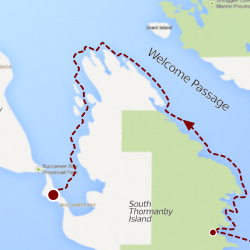
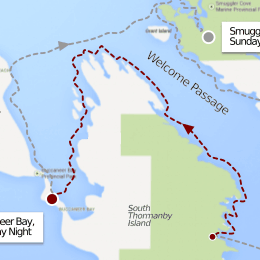
Nearly finished thormanby post; added bot to reddit bots article

diff --git a/themes/blueprint/templates/page.html b/themes/blueprint/templates/page.html
@@ -1,5 +1,5 @@
 {% extends "base.html" %}
-{% block title %}{{ page.title }} : {{ SITENAME }}{% endblock %}
+{% block title %}{{ page.title }}: {{ SITENAME }}{% endblock %}
 {% block description %}{{ page.meta_description|d(page.summary|striptags) }}{% endblock %}
 {% block twittercard %}
     <meta name="twitter:card" content="summary">

diff --git a/content/posts/personal/sunshine-coast-thormanby-islands-smuggler-cove-kayak-trip.rst b/content/posts/personal/sunshine-coast-thormanby-islands-smuggler-cove-kayak-trip.rst
@@ -23,6 +23,7 @@ On Saturday morning, we packed up our tent & got picked up by Erika from Talaysa
 We unloaded the Kayak, took it down to the surf and loaded all our gear into it, ready to paddle off into the blue.
 
 .. figure:: /static/images/posts/sunshine-coast-thormanby-islands-smuggler-cove-kayak-trip/p1060379-small.jpg
+    :target: /static/images/posts/sunshine-coast-thormanby-islands-smuggler-cove-kayak-trip/p1060379.jpg
 
     Standing on Welcome Beach, looking south-west across Welcome Passage towards the gap between Merry Island on the left & South Thormanby Island on the right.
 
@@ -31,6 +32,7 @@ The first stretch of paddling was about 45 minutes, across the widest part of We
 Once we'd made it to the other side, we pulled up at a tiny deserted beach about ½ way up the east side of South Thormanby Island, for cider and snacks. The water here was a bit clearer - and we watched Ospreys hunt in the bay in front of us while we rested:
 
 .. figure:: /static/images/posts/sunshine-coast-thormanby-islands-smuggler-cove-kayak-trip/p1060391-small.jpg
+    :target: /static/images/posts/sunshine-coast-thormanby-islands-smuggler-cove-kayak-trip/p1060391.jpg
 
     You can see Welcome Beach where we started, in the background, back across Welcome Passage.
 
@@ -50,7 +52,8 @@ The top of South Thormanby ends in a series of craggy fingers of rock, sloping d
 
 Once you round the corner, the very large sheltered Buccaneer Bay opens up on your left. There were lots of boats moored in and around the islets at the top of the bay, and a few holiday cottages and docks along the shore. These gave way to larger boats as we neared the anchorage at the end of the bay.
 
-.. image:: /static/images/posts/sunshine-coast-thormanby-islands-smuggler-cove-kayak-trip/p1060403.jpg
+.. image:: /static/images/posts/sunshine-coast-thormanby-islands-smuggler-cove-kayak-trip/p1060403-small.jpg
+    :target: /static/images/posts/sunshine-coast-thormanby-islands-smuggler-cove-kayak-trip/p1060403.jpg
 
 
 Camping at the Gap
@@ -59,10 +62,12 @@ Camping at the Gap
 We beached the Kayak at the end of the bay, at Buccaneer Bay Provincial park. This is a sand spit that joins North and South Thormanby Islands together - with space for 10 - 15 tents. It has stunning views - if you face one way, you can see up Buccaneer Bay, to the Sunshine Coast, with the Coastal Mountains in the distance - if you turn around, you can see across Georgia Strait to Vancouver Island on the horizon. Welcome to The Gap:
 
 .. figure:: /static/images/posts/sunshine-coast-thormanby-islands-smuggler-cove-kayak-trip/p1060430-small.jpg
+    :target: /static/images/posts/sunshine-coast-thormanby-islands-smuggler-cove-kayak-trip/p1060430.jpg
 
     Standing on the Gap, looking north east, towards the mouth of the bay.
 
 .. figure:: /static/images/posts/sunshine-coast-thormanby-islands-smuggler-cove-kayak-trip/p1060428-small.jpg
+    :target: /static/images/posts/sunshine-coast-thormanby-islands-smuggler-cove-kayak-trip/p1060428.jpg
 
     ...and looking south west, towards Vancouver Island.
 
@@ -72,7 +77,7 @@ You could easily imagine 17th century pirates anchoring their galleons in the ba
 .. figure:: /static/images/posts/sunshine-coast-thormanby-islands-smuggler-cove-kayak-trip/p1060467-small-crop.jpg
     :target: /static/images/posts/sunshine-coast-thormanby-islands-smuggler-cove-kayak-trip/p1060467.jpg
 
-    This beautiful two masted schooner sailed into the bay a few hours after we arrived. As we sat on the beach, reading, propped up on a log, they anchored and the crew rowed ashore in long boats.
+    This beautiful two masted schooner sailed into the bay a few hours after we arrived. As we sat on the beach, reading, propped up on a log, they dropped sail, anchored and the crew rowed ashore in long boats.
 
 We made camp, walked around the beaches, took in the views and had a relaxed dinner. At some point, our neighbours slipped off in one of their kayaks. They returned about an hour later, with the front cockpit full of fish - which they cleaned and gutted in the surf and cooked over a fire. Prior to this, I was quite happy with my stew, but I admit, I was rather envious of their fishing skills.
 
@@ -82,35 +87,72 @@ We were treated to a glorious sunset to round off a pretty perfect day:
     :target: /static/images/posts/sunshine-coast-thormanby-islands-smuggler-cove-kayak-trip/p1060487.jpg
 
 
-Buccaneer Bay to Smugglers Cove
+Buccaneer Bay to Smuggler Cove
 ================================
 
-On Sunday morning, we had a lazy breakfast on the beach - and watched an Osprey catch theirs in the bay, right in front of us. We eventually packed the camp back into the kayak and headed out, up the east side of North Thormanby island, to checkout the beaches we saw on the way in.
+.. image:: /static/images/posts/sunshine-coast-thormanby-islands-smuggler-cove-kayak-trip/buccaneer-bay-to-smugglers-cove.png
+   :class: align-left
 
-There are lots more holiday cottages and lots more boats moored on this side of the bay, especially as you approach the long, sandy, Vaucroft Beach. This is a popular day trip spot for boaters, as it's very close to Secret Cove, a fairly large marina.
+On Sunday morning, we had a lazy brunch on the beach - and watched an Osprey catch theirs in the bay, right in front of us. We eventually packed the camp back into the kayak and headed out, up the east side of North Thormanby island, to checkout the beaches we saw on the way in.
+
+There are lots more holiday cottages and lots more boats moored on this side of the bay, especially as you approach the long, sandy, Vaucroft Beach. This is a popular day trip spot for boaters, as it's very close to Secret Cove, a fairly large marina. The beach itself is white sand, quite unusual in BC, and could easily pass for the Caribbean, on a sunny day.
 
 .. figure:: /static/images/posts/sunshine-coast-thormanby-islands-smuggler-cove-kayak-trip/p1060490-small.jpg
     :target: /static/images/posts/sunshine-coast-thormanby-islands-smuggler-cove-kayak-trip/p1060490.jpg
 
-    There was also a float place moored up just off Vaucroft Beach
+    There was also a float plane moored up just off Vaucroft Beach.
 
-Millionaires row; completely hidden from outside.
+After passing Vaucroft beach, we headed east, towards the coast and Smuggler Cove. We paddled across the wide mouth of Buccaneer Bay, past the fingers of South Thormanby and across Welcome Passage in the glorious sunshine. Paddling towards the coast, we had great views of the Coastal Mountains ahead of us and the expanse of the Strait on our left the whole way over. We passed quite a few boats buzzing back and forth between Secret Cove to Thormanby, including a water taxi.
 
-Trip to Secret Cove, for Ice Cream
------------------------------------
+The entrance to `Smuggler Cove <http://www.env.gov.bc.ca/bcparks/explore/parkpgs/smuggler/>`_ is almost invisible until you get quite close. A small gap between two rocky outcrops, leads you into a hidden world of sheltered bays and waterways, almost completely separate from the ocean outside. Just inside the entrance in the first large cove, we came across 16 yachts moored up and rafted together - "Millionaires Row". We later met a very nice couple from one of these yachts - apparently it was a local club meeting up for the weekend.
 
-Trip to Secret Cove for ice cream, bathroom.
+.. figure:: /static/images/posts/sunshine-coast-thormanby-islands-smuggler-cove-kayak-trip/smuggler-cove-millionaires-row-panorama-small.jpg
+    :target: /static/images/posts/sunshine-coast-thormanby-islands-smuggler-cove-kayak-trip/smuggler-cove-millionaires-row-panorama.jpg
 
-Back to Smugglers Cove
-------------------------
+    A panorama of row of yachts rafted up for the weekend at Smuggler Cove.
+
+    The gap on the left is the entrance to the cove, with the tip of North Thormanby island and Vaucroft Beach in the distance
+
+We wound our way deeper into the cove, around islands and moored boats, looking for somewhere to beach - or for signs of the camp site. We eventually found a small muddy beach right at the southern end of the cove and hauled out. We scouted around and found people camping just up in the woods, along with a pit toilet. We unpacked the kayak and made camp.
+
+.. figure:: /static/images/posts/sunshine-coast-thormanby-islands-smuggler-cove-kayak-trip/p1060524-small.jpg
+    :target: /static/images/posts/sunshine-coast-thormanby-islands-smuggler-cove-kayak-trip/p1060524.jpg
+
+    Our little tent.
+
+Once we'd got everything set up, we headed back out, for a trip to Secret Cove.
+
+Trip to Secret Cove, for Ice Cream, Real Bathroom
+--------------------------------------------------
+
+.. image:: /static/images/posts/sunshine-coast-thormanby-islands-smuggler-cove-kayak-trip/trip-to-secret-cove-for-ice-cream.png
+   :class: align-left
+
+We paddled back out of the cove and right, around Capri Isle and along the coast towards `Secret Cove <https://www.google.ca/maps?t=m&ll=49.52996589999999%2C-123.96011350000003&spn=0.026796243931675245%2C0.05504765799669358>`_. True to it's name, Secret Cove is well hidden behind islands and it opens up into a series of long deep bays once you get past the entrance - most of it isn't visible until you get inside, past Jack Tolmie and Turnagain Islands.
+
+There are several marinas, chandleries, floating bars and tens - possibly hundreds - of docks, moorings and cottages nestled inside Secret Cove's many deep bays, accommodating hundreds of water craft of all shapes and sizes. From our little kayak, to old log raft tugs, the occasional trawler and multi-million dollar yachts - and everything in between.
+
+Over to the north west side we eventually found the government dock and marina - with a boat fuelling dock, floating restaurant and shop. We tied the kayak to the dock at the back and climbed up onto the dock. We proceeded to make *extensive* use of their bathroom facilities, before buying cold drinks, ice cream and After Sun lotion from the shop. We then sat in the shade on the edge of the dock, watching the world go by for a while.
+
+Back to Smuggler Cove, dinner & Beavers
+-----------------------------------------
+
+We paddled back to Smuggler Cove, tied up the kayak and explored the parks trails around the cove a little.
 
 Walking through the Park, came across a Beaver Dam. Heard three beavers diving in and swimming away, saw the tail end of one of them.
 Wetland habitat created by the beavers from the drowned forest valley.
 
-Home
-====
+Homeward Bound
+================
 
-Paddle back to Welcome Beach, meet Erika, car back to Sechelt, bus to Langdale, etc...
+.. image:: /static/images/posts/sunshine-coast-thormanby-islands-smuggler-cove-kayak-trip/smuggler-cove-to-welcome-beach.png
+   :class: align-left
+
+We left Smuggler Cove before lunch, because we needed to be back at Welcome Beach by 2pm, to be picked up by Erika for out ride back into Sechelt. The paddle back was about 7 km, which took us roughly 2 hours.
+
+Paddling back down Welcome Passage, we passed several herons, fishing from the rocks by the shore. We also passed a huge yacht, possibly this one, plowing it's way north.
+
+meet Erika, car back to Sechelt, Sechelt festival thing, diversion, just made the bus to Langdale, etc...
 
 All in all - an amazing weekend. Shower time!
 
@@ -121,9 +163,9 @@ Logistics & Getting there from Vancouver
 
 We don't own a car - but getting to the sunshine coast is very easy on public transport - and much cheaper than taking a car on the ferry. Here's how we did it:
 
-We took the #257 Express Bus from downtown Vancouver to Horseshoe Bay. We normally get on at the stop on West Georgia St., right outside The Bay. You can also catch the #250 from here - which isn't an express but doesn't take too much longer. This costs $2.75 per person.
+We took the #257 Express Bus from down-town Vancouver to Horseshoe Bay. We normally get on at the stop on West Georgia St., right outside The Bay. You can also catch the #250 from here - which isn't an express but doesn't take too much longer. This costs $2.75 per person.
 
-Once we got to Horeshoe Bay, we took the ferry to Langdale. These are fairly frequent, but with occasional gaps, so `check the schedule <http://www.bcferries.com/schedules/mainland/vasc-current.php>`_. As a foot passenger, we've never had to wait or not been able to get on - we just walk onto the first ferry that turns up. This is $15 per person, including the return trip. If you're planning to do this often, it's worth getting a `BC Ferries Experience card <https://www.bcferries.com/experience_and_coast_card/>`_. You have to pre-load it with at least $60, but you get ~20% of most fares.
+Once we got to Horseshoe Bay, we took the ferry to Langdale. These are fairly frequent, but with occasional gaps, so `check the schedule <http://www.bcferries.com/schedules/mainland/vasc-current.php>`_. As a foot passenger, we've never had to wait or not been able to get on - we just walk onto the first ferry that turns up. This is $15 per person, including the return trip. If you're planning to do this often, it's worth getting a `BC Ferries Experience card <https://www.bcferries.com/experience_and_coast_card/>`_. You have to pre-load it with at least $60, but you get ~20% of most fares.
 
 .. figure:: /static/images/posts/sunshine-coast-thormanby-islands-smuggler-cove-kayak-trip/thormanby-trip-overview-map.png
 

diff --git a/content/posts/tech/a-marvellous-incomplete-compendium-of-reddit-automatons-bots.rst b/content/posts/tech/a-marvellous-incomplete-compendium-of-reddit-automatons-bots.rst
@@ -417,7 +417,9 @@ and it leaves comments that look like this:
 
 .. image:: /static/images/posts/a-marvellous-incomplete-compendium-of-reddit-automatons-bots/reddit-bots-metricconversionbot-example.png
 
-This bot is a (`more popular <http://www.reddit.com/r/TheoryOfReddit/comments/1fop0k/why_is_umetricmonversionmot_succeeding_while_usi/>`_) successor to the deceased `SI_BOT <http://www.reddit.com/user/si_bot>`_. Interestingly, MetricConversionBot has attracted it's own parody bot, called `MetricConversionNot <http://www.reddit.com/user/MetricConversionNot>`_ - which randomly makes similar looking, but factually inaccurate parody comments; somewhat similar to the older, inactive parody bot `Lord_Longbottom <http://www.reddit.com/user/Lord-Longbottom>`_.
+This bot is a (`more popular <http://www.reddit.com/r/TheoryOfReddit/comments/1fop0k/why_is_umetricmonversionmot_succeeding_while_usi/>`_) successor to the deceased `SI_BOT <http://www.reddit.com/user/si_bot>`_. Interestingly, MetricConversionBot has attracted it's own parody bots, `MetricConversionNot <http://www.reddit.com/user/MetricConversionNot>`_ - which randomly makes similar looking, but factually inaccurate parody comments (somewhat similar to the older, inactive parody bot `Lord_Longbottom <http://www.reddit.com/user/Lord-Longbottom>`_) and `UselessConversionBot <http://www.reddit.com/user/UselessConversionBot>`_:
+
+.. image:: /static/images/posts/a-marvellous-incomplete-compendium-of-reddit-automatons-bots/reddit-bots-uselessconversionbot-example.png
 
 Website Mirror bot
 ======================
